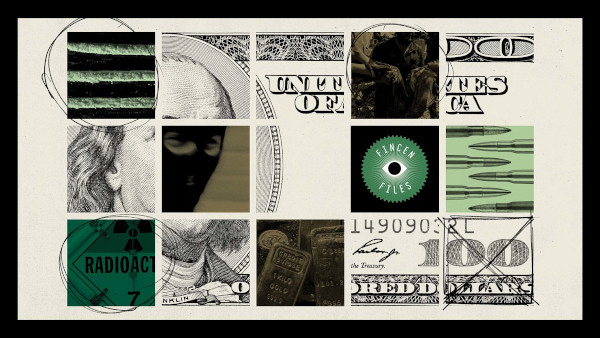
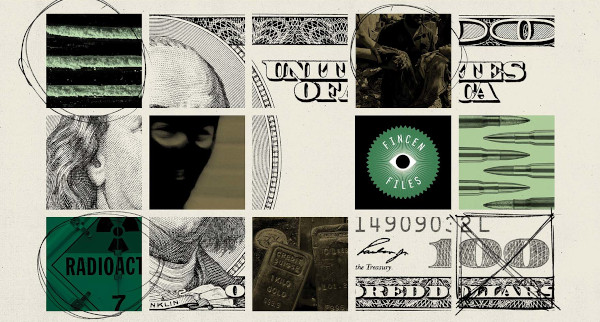
updated investigations colors

diff --git a/src/components/Investigations.vue b/src/components/Investigations.vue
@@ -93,6 +93,7 @@ export default {
 
         &:before {
           font-size: 0.9rem;
+          font-weight: bold;
           content:attr(aria-organization);
           position: relative;
           z-index: 100;
@@ -128,7 +129,7 @@ export default {
             left: 0;
             right: 0;
             bottom: 0;
-            @include gradient-directional(currentColor, transparent);
+            @include gradient-directional(rgba(black, 0.5), transparent);
           }
         }
 
